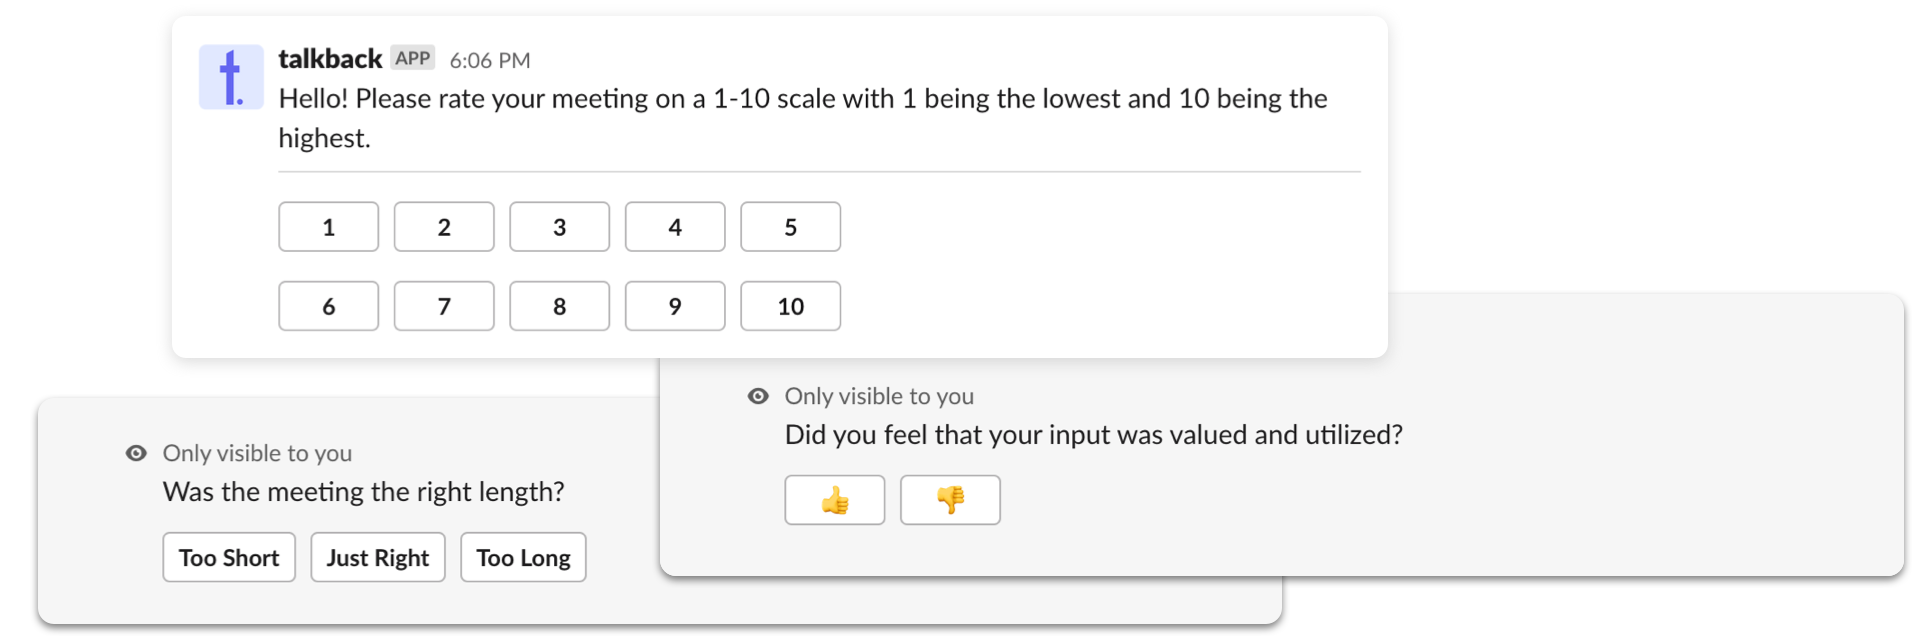
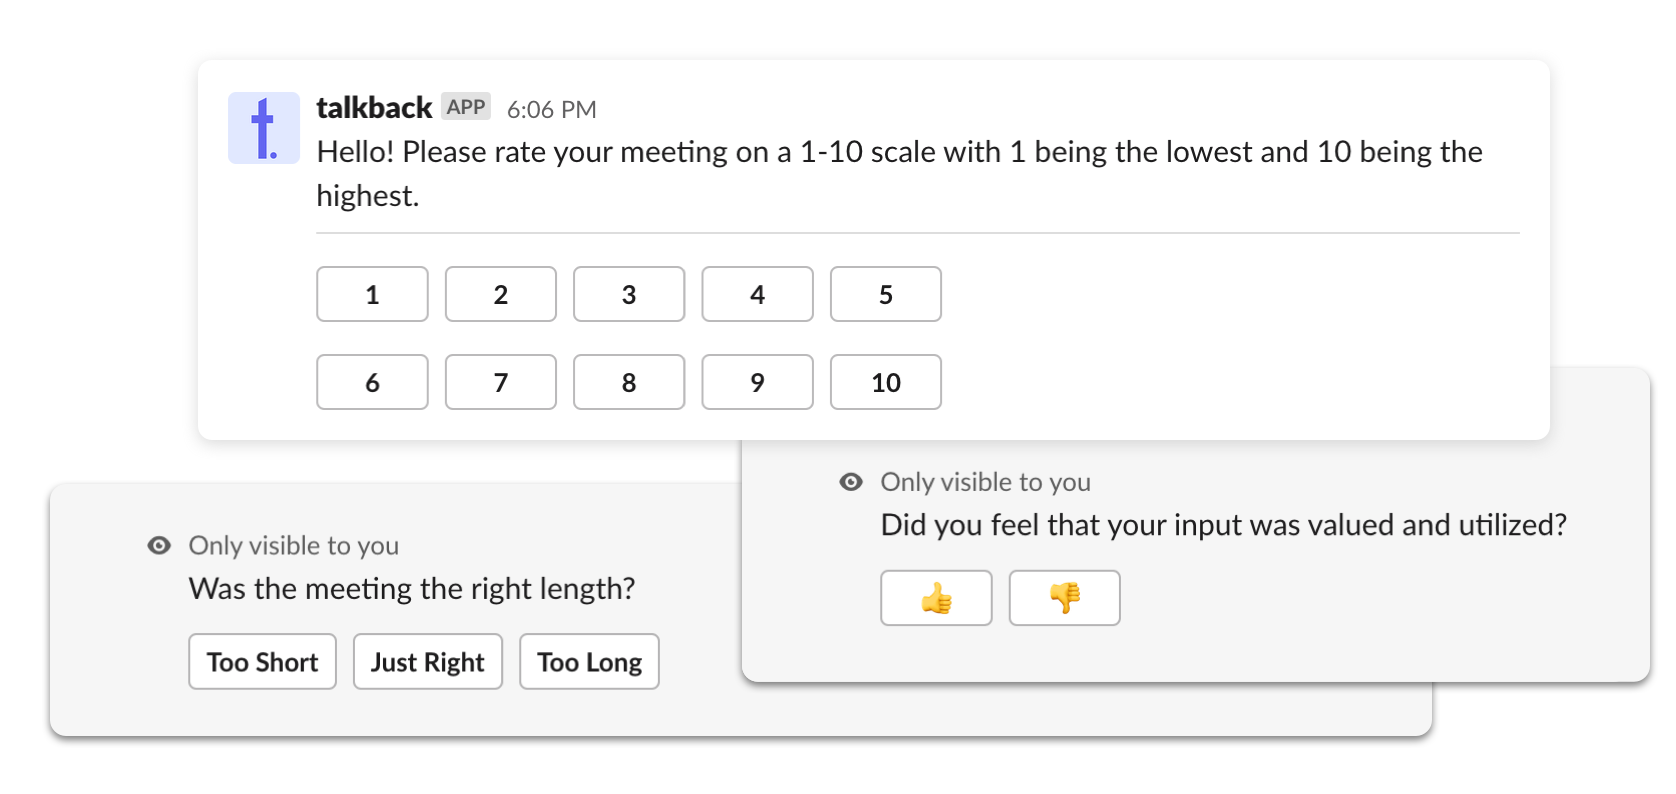
updated image

diff --git a/pages/index.js b/pages/index.js
@@ -25,12 +25,12 @@ export default function Home() {
             <InstallButton />
           </div>
         </div>
-        <div className="flex flex-col w-full overflow-x-hidden lg:w-2/3">
+        <div className="flex-col hidden w-full overflow-x-hidden lg:flex pl-36 lg:w-2/3">
           <Image
             className="-mr-48"
             src="/images/ChatPreviews.png"
-            width="1926"
-            height="638"
+            width="838"
+            height="397"
           />
         </div>
       </div>
